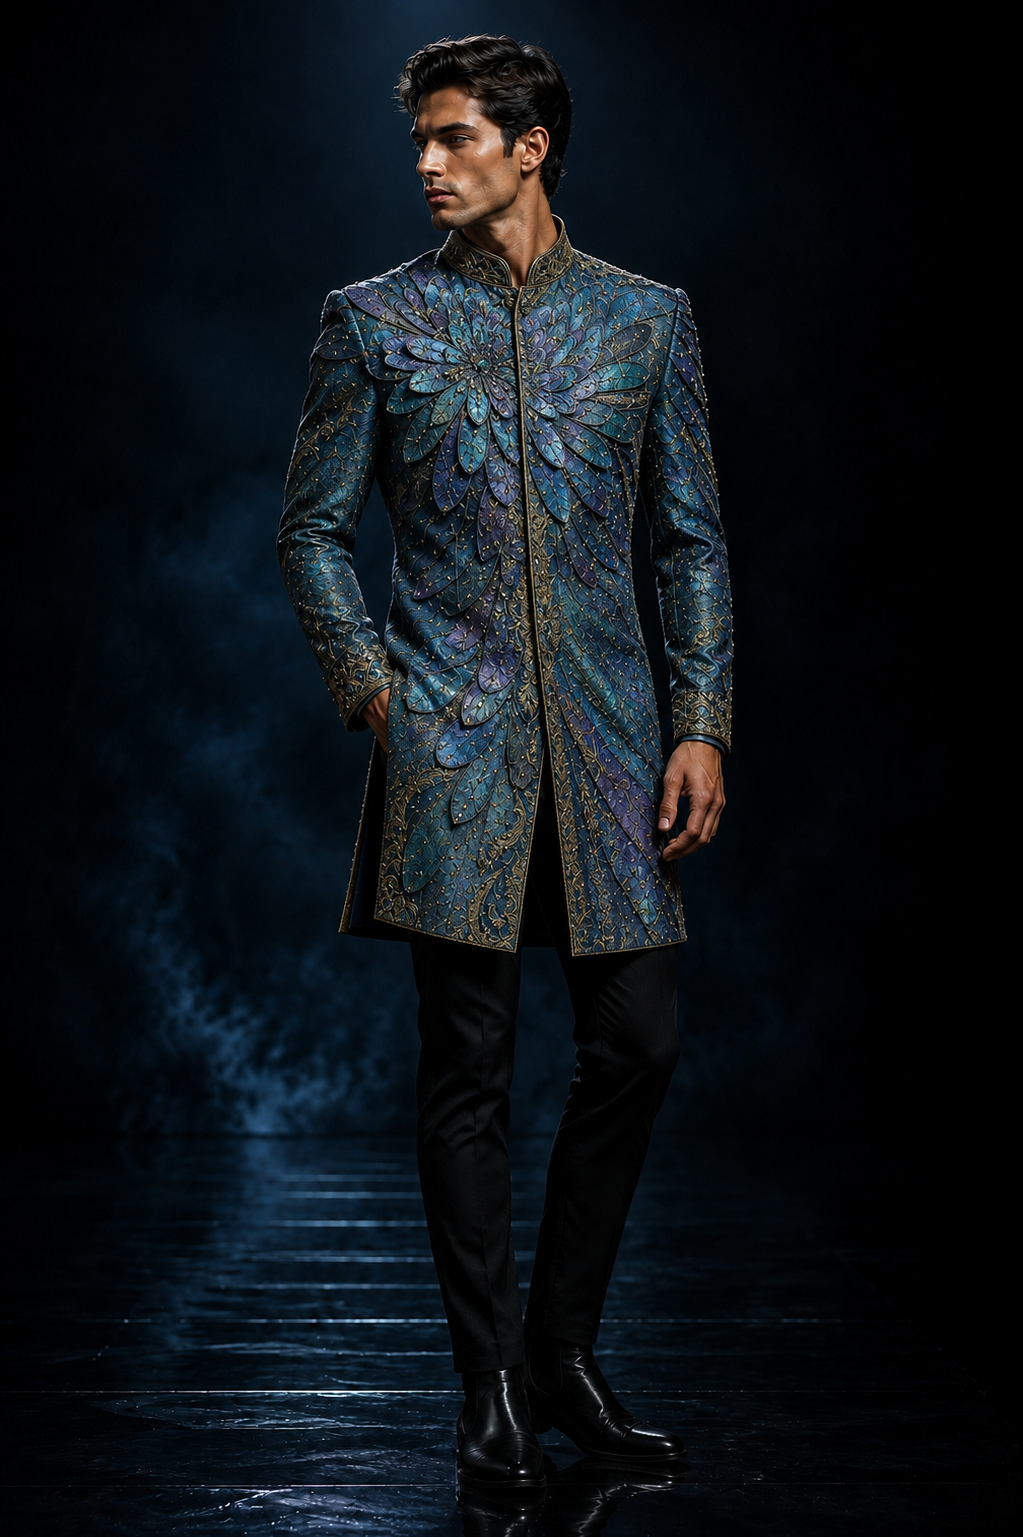
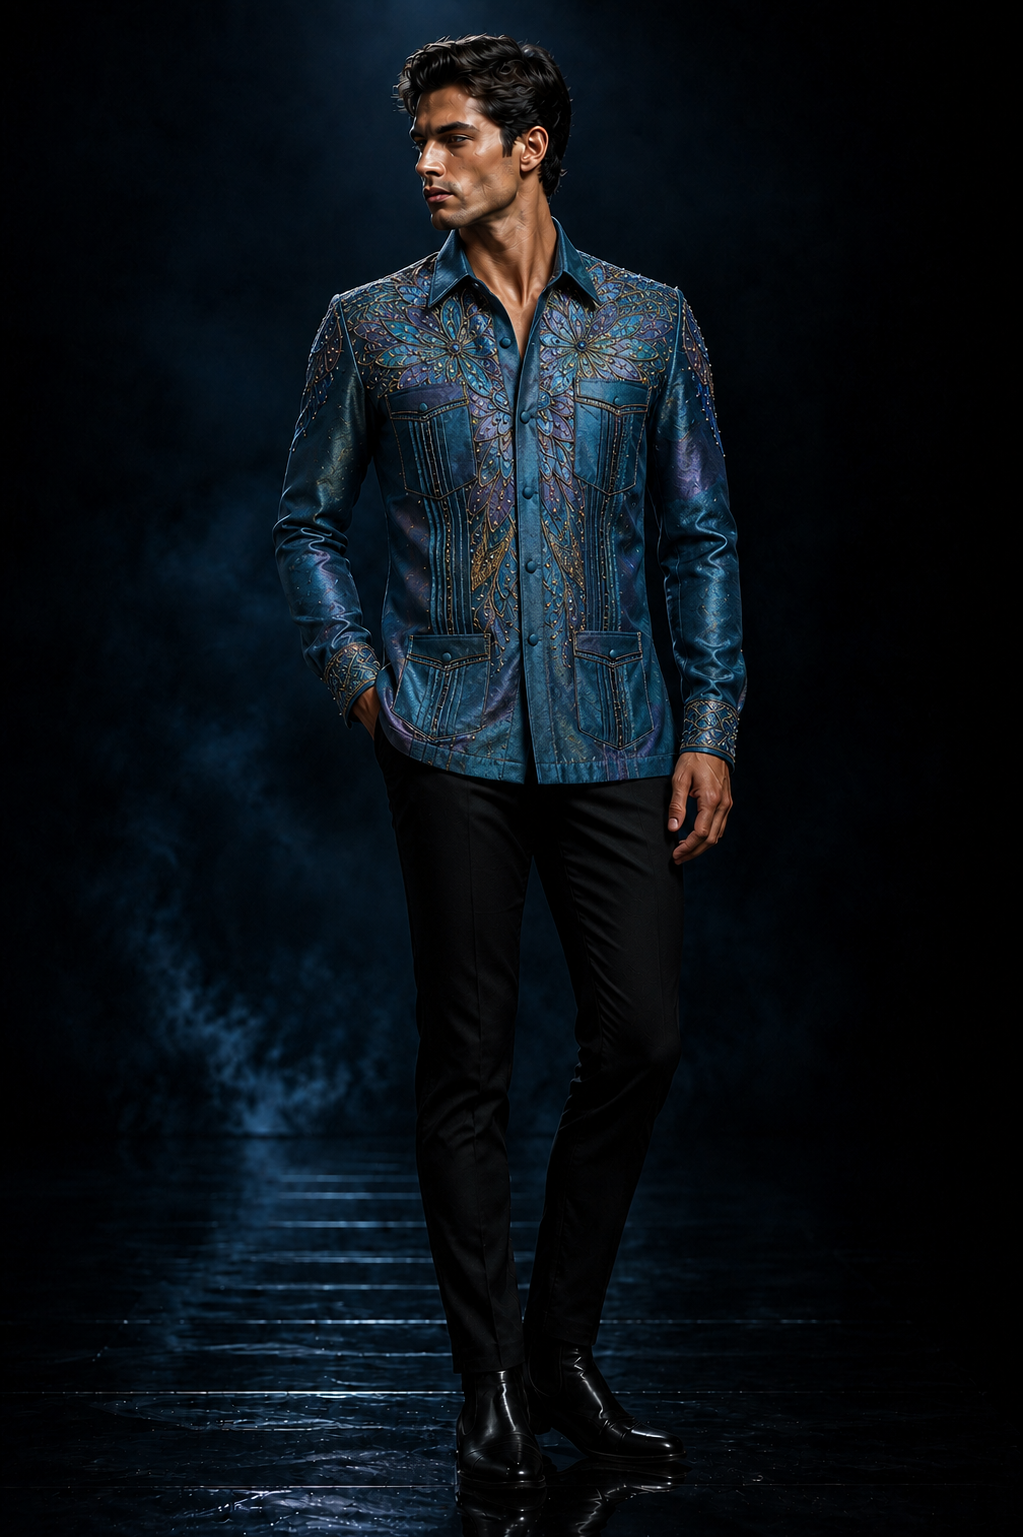
new design coming

diff --git a/src/assets/fashion/fashion.css b/src/assets/fashion/fashion.css
@@ -61,6 +61,14 @@ main { overflow: hidden; }
 .look-meta small, .look-meta i { font-size: 8px; font-style: normal; font-weight: 800; letter-spacing: .16em; }
 .look-meta b { font: italic 700 23px/1 Georgia, serif; }
 
+.upcoming { display: grid; grid-template-columns: 1fr 1fr; align-items: center; gap: 6vw; padding: 7vw; border-bottom: 1px solid var(--ink); }
+.upcoming .kicker { border-color: #4c4a89; }
+.upcoming h3 { margin: 40px 0 0; font: 700 clamp(55px, 6vw, 90px)/.95 Georgia, serif; letter-spacing: -.06em; }
+.upcoming h3 em { color: #4c4a89; }
+.upcoming .statement { margin-top: 30px; }
+.upcoming-look { width: 100%; aspect-ratio: 1086/1448; background: #faf7ef; }
+.upcoming-look img { filter: none; }
+
 .closing { position: relative; padding: 140px 7vw 130px; }
 .closing > p { font-size: 10px; font-weight: 800; letter-spacing: .22em; }
 .closing h3 { margin-top: 28px; font-size: clamp(70px, 10vw, 150px); }
@@ -96,6 +104,7 @@ footer span:last-child { text-align: right; }
   .intro { grid-template-columns: 1fr; padding: 80px 7vw; }
   .statement { margin-top: 10px; }
   .gallery { grid-template-columns: 1fr; padding: 14px; }
+  .upcoming { grid-template-columns: 1fr; gap: 35px; padding: 65px 7vw; }
   .look-meta b { font-size: 20px; }
   .closing { padding: 100px 7vw 110px; }
   .closing a { right: auto; bottom: 45px; left: 7vw; }

diff --git a/src/assets/fashion/fashion.js b/src/assets/fashion/fashion.js
@@ -3,6 +3,7 @@ const looks = [
   ["Bird of Paradise", "No. 02", "/assets/fashion/bird-of-paradise.png"],
   ["White Tuxedo", "No. 03", "/assets/fashion/white-tuxedo.png"],
   ["Cuban Bloom", "No. 04", "/assets/fashion/cuban-bloom.png"],
+  ["Midnight Bloom", "Upcoming design", "/assets/fashion/midnight-bloom.png"],
 ];
 
 const lightbox = document.querySelector(".lightbox");
